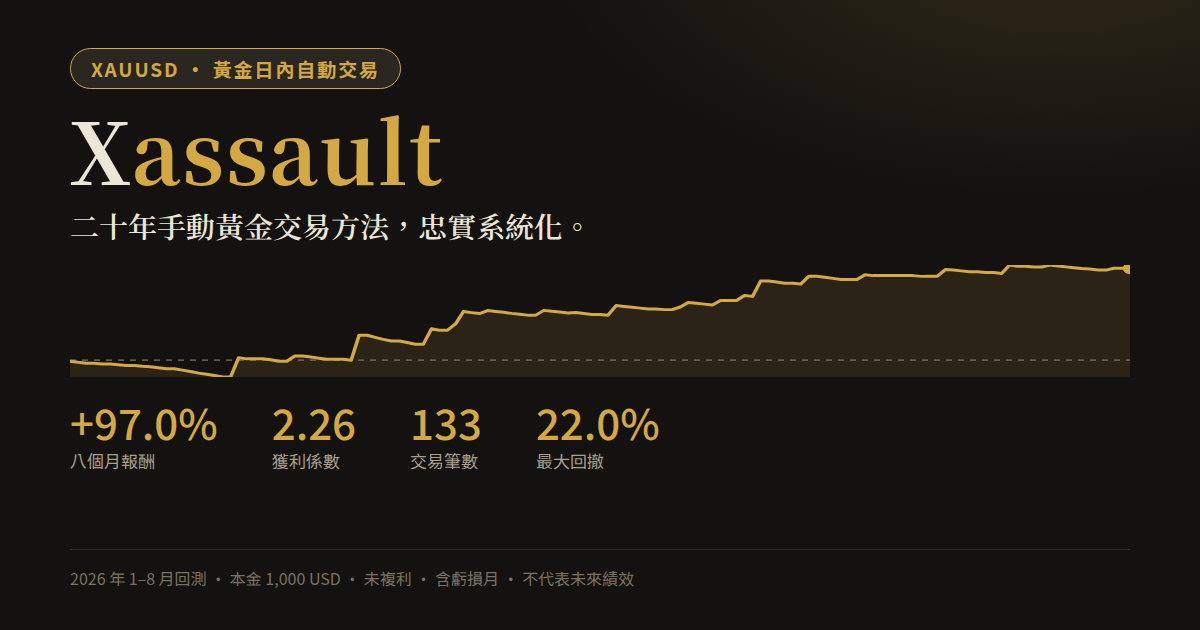
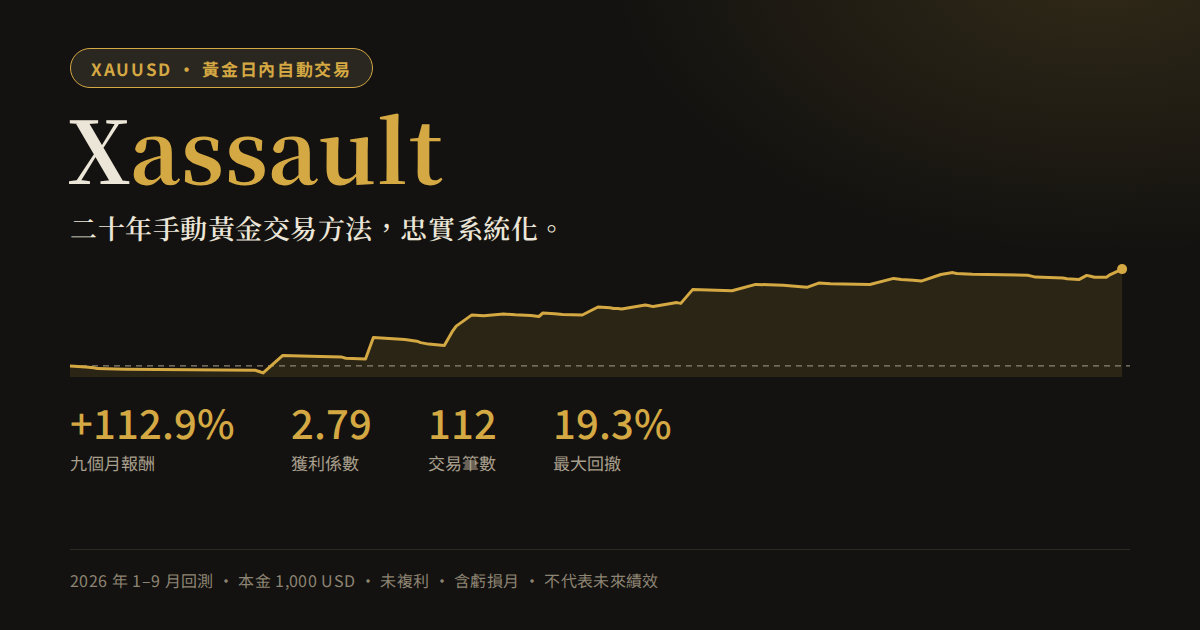
單筆版更新為最新版程式回測(單筆 0.01 對鎖關:2026/1/2~9/25、112 筆、+1,129.34/PF 2.79/回撤 19.3%@1000)
- KPI/曲線/月表改用最新回測:淨損益、獲利係數、最大回撤取 MT4 報表原值;
  曲線、月別、逐日統計取自執行日誌逐日平倉損益(合計 1,129.37)
- 「錯很多次，但每次錯得很小」改用報表口徑:60 筆虧損/52 筆獲利(含保本)、
  平均虧損 −10.5、平均獲利 +33.9、賺賠比 3.2×
- 最大單筆虧損改為最壞的一天(23.08 = 本金 2.3%),並揭露獲利集中於三天
- 回測條件補註回測帳戶 10,000、固定 0.01 手,換算為 1,000 本金
- 社群分享預覽卡 og.png 重新產生

Claude-Session: https://claude.ai/code/session_01Lc6fu3JrR3s321HPCpsum5

diff --git a/index.html b/index.html
@@ -16,7 +16,7 @@
 <meta property="og:image" content="https://xassault-tw.github.io/Xassault-TW/og.png">
 <meta property="og:image:width" content="1200">
 <meta property="og:image:height" content="630">
-<meta property="og:image:alt" content="Xassault 回測權益曲線：2026 年 1–8 月 +97.0%、獲利係數 2.26、最大回撤 22.0%">
+<meta property="og:image:alt" content="Xassault 回測權益曲線：2026 年 1–9 月 +112.9%、獲利係數 2.79、最大回撤 19.3%">
 <meta name="twitter:card" content="summary_large_image">
 <meta name="twitter:title" content="Xassault｜黃金日內自動交易系統">
 <meta name="twitter:description" content="二十年手動黃金交易方法，忠實系統化。真實回測數據逐月攤開，含虧損月。">
@@ -184,7 +184,7 @@ footer p{margin:0}
       <div class="card">
         <h3>小額起步的觀望者</h3>
         <p>以為程式交易是大戶的遊戲——投入太多不敢，太少又怕撐不住波動。</p>
-        <p class="a"><b>系統的回應：</b>它跑最小 0.01 手，1,000 美元就能起步。2026 回測 133 筆，最大單筆虧損 22.9 美元——約本金的 2.3%。</p>
+        <p class="a"><b>系統的回應：</b>它跑最小 0.01 手，1,000 美元就能起步。2026 年 1–9 月回測 112 筆，最壞的一天虧 23.08 美元——約本金的 2.3%。</p>
       </div>
     </div>
   </div>
@@ -198,13 +198,13 @@ footer p{margin:0}
       <p>華爾街最老的一句話：截斷虧損，讓利潤奔跑。多數人都會背，很少人做得到——因為做到它需要的不是聰明，是每一單都不例外的紀律。</p>
     </div>
 
-    <p style="margin:0 0 6px">先看一組會嚇到你的真實數字。2026 年回測 133 筆交易裡：<b>73 筆停損、37 筆保本出場、只有 23 筆真正獲利</b>。聽起來很失敗？再看下一層——</p>
+    <p style="margin:0 0 6px">先看一組會嚇到你的真實數字。2026 年 1–9 月回測 112 筆交易裡：<b>60 筆虧損，只有 52 筆獲利（含保本出場）</b>；以天來算，有平倉的 69 個交易日裡只有 20 天收正。聽起來很失敗？再看下一層——</p>
     <div class="stats">
-      <div class="stat"><div class="num mono">−10.6</div><div class="lbl">平均一筆虧損（USD）</div><div class="src">總虧損 772.42 ÷ 73 筆</div></div>
-      <div class="stat"><div class="num mono">+75.8</div><div class="lbl">平均一筆獲利（USD）</div><div class="src">總獲利 1,742.72 ÷ 23 筆</div></div>
-      <div class="stat"><div class="num mono">7.2×</div><div class="lbl">賺賠比（平均獲利 ÷ 平均虧損）</div><div class="src">虧損砍在萌芽，利潤抱到成熟</div></div>
+      <div class="stat"><div class="num mono">−10.5</div><div class="lbl">平均一筆虧損（USD）</div><div class="src">總虧損 631.75 ÷ 60 筆</div></div>
+      <div class="stat"><div class="num mono">+33.9</div><div class="lbl">平均一筆獲利（USD）</div><div class="src">總獲利 1,761.09 ÷ 52 筆（含保本出場）</div></div>
+      <div class="stat"><div class="num mono">3.2×</div><div class="lbl">賺賠比（平均獲利 ÷ 平均虧損）</div><div class="src">虧損砍在萌芽，利潤抱到成熟</div></div>
     </div>
-    <p style="margin:0 0 26px">一次獲利，抵掉七次停損。所以勝率只有 45%，八個月帳戶還是 +97.0%——平均每下一筆單，期望值是 <b class="mono">+7.3 美元</b>。這不是新發明，是所有活得久的交易者共同的樣子：<b>不追求每次都對，只確保錯的時候便宜、對的時候豐收。</b></p>
+    <p style="margin:0 0 26px">一次獲利，抵掉三次虧損。所以勝率不到一半（46.4%，含保本出場），九個月帳戶還是 +112.9%——平均每下一筆單，期望值是 <b class="mono">+10.1 美元</b>。這不是新發明，是所有活得久的交易者共同的樣子：<b>不追求每次都對，只確保錯的時候便宜、對的時候豐收。</b></p>
 
     <p style="margin:0 0 14px;color:var(--ink2)">這套數學能成立，靠的是四條寫死在程式裡的紀律：</p>
     <div class="rules">
@@ -221,7 +221,7 @@ footer p{margin:0}
     <div class="sec-head">
       <div class="eyebrow">真實數據</div>
       <h2>2026 年回測，逐月攤開</h2>
-      <p>曲線由回測逐筆交易紀錄重建，數字未經任何修飾——含虧損的月份。</p>
+      <p>曲線由回測逐日平倉損益重建，數字未經任何修飾——含虧損的月份。</p>
     </div>
     <div class="kpis" id="kpis"></div>
     <div class="chart-box">
@@ -233,25 +233,26 @@ footer p{margin:0}
       <table aria-label="2026 月別損益">
         <thead><tr><th>2026</th><th>淨損益 (USD)</th><th>佔本金</th></tr></thead>
         <tbody>
-          <tr><td>1 月</td><td class="neg">−90.34</td><td class="neg">−9.03%</td></tr>
-          <tr><td>2 月</td><td>+104.02</td><td>+10.40%</td></tr>
-          <tr><td>3 月</td><td>+188.75</td><td>+18.88%</td></tr>
-          <tr><td>4 月</td><td>+272.80</td><td>+27.28%</td></tr>
-          <tr><td>5 月</td><td>+153.51</td><td>+15.35%</td></tr>
-          <tr><td>6 月</td><td>+256.53</td><td>+25.65%</td></tr>
-          <tr><td>7 月</td><td>+57.55</td><td>+5.76%</td></tr>
-          <tr><td>8 月（至 27 日）</td><td>+27.48</td><td>+2.75%</td></tr>
-          <tr class="sum"><td>合計</td><td>+970.30</td><td>+97.03%</td></tr>
+          <tr><td>1 月</td><td class="neg">−38.79</td><td class="neg">−3.88%</td></tr>
+          <tr><td>2 月</td><td>+161.94</td><td>+16.19%</td></tr>
+          <tr><td>3 月</td><td>+148.55</td><td>+14.86%</td></tr>
+          <tr><td>4 月</td><td>+305.32</td><td>+30.53%</td></tr>
+          <tr><td>5 月</td><td>+115.19</td><td>+11.52%</td></tr>
+          <tr><td>6 月</td><td>+259.23</td><td>+25.92%</td></tr>
+          <tr><td>7 月</td><td>+56.18</td><td>+5.62%</td></tr>
+          <tr><td>8 月</td><td>+62.40</td><td>+6.24%</td></tr>
+          <tr><td>9 月（至 25 日）</td><td>+59.35</td><td>+5.94%</td></tr>
+          <tr class="sum"><td>合計</td><td>+1,129.37</td><td>+112.94%</td></tr>
         </tbody>
       </table>
     </div>
 
     <div class="callout">
-      <p><b>1 月是虧損的月份，我們照樣放上來。</b>虧損月虧得住、單筆虧損有上限，才是紀律真正的證明。行情隨時在更新，這裡永遠放最新一段完整數據——更長的歷史與之後的實測，聯絡我們就會定期收到。</p>
+      <p><b>1 月是虧損的月份，我們照樣放上來。</b>九個月裡八個月為正，虧損月虧得住、單筆虧損有上限，才是紀律真正的證明。也要說清楚：獲利集中在少數幾天——2 月 24 日、3 月 19 日、4 月 8 日三天就佔了九個月淨利的一半以上，多數有交易的日子是小賠。行情隨時在更新，這裡永遠放最新一段完整數據——更長的歷史與之後的實測，聯絡我們就會定期收到。</p>
     </div>
 
     <div class="cond">
-      <b>回測條件全揭露：</b>XAUUSD（黃金）H1 週期 · MT4 策略測試器 · 點差固定 50 點 · 固定 0.01 手（最小手數）· 起始本金 1,000 USD · 期間 2026 年 1 月 2 日至 8 月 27 日。本頁全部百分比以同一本金基準計，未複利；勝率含保本出場。單筆最大虧損 22.86 USD＝本金 2.3%。
+      <b>回測條件全揭露：</b>XAUUSD（黃金）H1 週期 · MT4 策略測試器（每個即時價格模式）· 點差固定 50 點 · 固定 0.01 手（最小手數）· 起始本金 1,000 USD · 期間 2026 年 1 月 2 日至 9 月 25 日 · 共 112 筆。本頁全部百分比以同一本金基準計，未複利；勝率含保本出場。淨損益 1,129.34 USD、獲利係數 2.79、最大回撤 193.46 USD＝本金 19.3%，皆為 MT4 報表原值；回測帳戶以 10,000 USD 開立、固定 0.01 手，金額與帳戶大小無關，本頁換算為 1,000 USD 本金。曲線、月別與逐日統計依各筆的平倉日歸屬，取自程式執行日誌，合計 1,129.37 USD，與報表淨損益差 0.03；最壞的一天虧 23.08 USD＝本金 2.3%。
     </div>
   </div>
 </section>
@@ -290,7 +291,7 @@ footer p{margin:0}
     <div class="faq">
       <div class="qa">
         <h3>需要多少資金？</h3>
-        <p>系統以最小 0.01 手運作，1,000 美元即可起步。2026 回測的單筆最大虧損約 22.9 美元，佔本金約 2.3%；資金放大時，報酬與回撤同比例增減。</p>
+        <p>系統以最小 0.01 手運作，1,000 美元即可起步。2026 年 1–9 月回測最壞的一天虧 23.08 美元，佔本金約 2.3%；最大回撤 193.46 美元，約 19.3%。資金放大時，報酬與回撤同比例增減。</p>
       </div>
       <div class="qa">
         <h3>我需要懂交易或盯盤嗎？</h3>
@@ -298,11 +299,11 @@ footer p{margin:0}
       </div>
       <div class="qa">
         <h3>最壞情況會虧多少？</h3>
-        <p>每一筆的停損在下單前就決定好、隨單送到券商端。2026 年回測 133 筆中最大單筆虧損 22.9 美元（本金 2.3%）、最大回撤 22.0%。要說實話的部分：極端行情的跳空與滑點可能讓實際虧損大於停損位，這是所有交易系統共同的風險，沒有例外。</p>
+        <p>每一筆的停損在下單前就決定好、隨單送到券商端。2026 年 1–9 月回測 112 筆中，最壞的一天虧 23.08 美元（本金 2.3%）、最大回撤 19.3%。要說實話的部分：極端行情的跳空與滑點可能讓實際虧損大於停損位，這是所有交易系統共同的風險，沒有例外。</p>
       </div>
       <div class="qa">
         <h3>回測數字能信嗎？</h3>
-        <p>本頁條件全部揭露：固定點差 50 點、最小手數、期間與本金都寫明，曲線由逐筆交易紀錄重建。實盤的點差、滑點會造成差異，所以我們接下來會用同樣標準持續公開實測數據——賺賠都報。</p>
+        <p>本頁條件全部揭露：固定點差 50 點、最小手數、期間與本金都寫明，淨損益、獲利係數、最大回撤直接取自 MT4 報表，曲線由逐日平倉損益重建。實盤的點差、滑點會造成差異，所以我們接下來會用同樣標準持續公開實測數據——賺賠都報。</p>
       </div>
       <div class="qa">
         <h3>為什麼不公開進出場規則？</h3>
@@ -354,9 +355,9 @@ footer p{margin:0}
 </footer>
 
 <script>
-const DATA = {"2026":[["2026-01-02T02:56:26",988.96],["2026-01-05T03:02:04",977.66],["2026-01-07T08:46:04",968.32],["2026-01-08T03:09:38",968.32],["2026-01-08T07:30:36",959.03],["2026-01-12T10:48:05",959.03],["2026-01-14T07:01:33",950.85],["2026-01-15T05:27:03",943.03],["2026-01-16T17:25:37",943.03],["2026-01-20T06:35:38",935.7],["2026-01-21T06:19:30",930.41],["2026-01-22T19:22:37",920.97],["2026-01-26T03:11:39",909.66],["2026-01-27T11:59:39",909.66],["2026-02-02T07:44:36",895.03],["2026-02-12T18:11:37",879.47],["2026-02-13T03:05:13",863.91],["2026-02-17T02:52:18",851.2],["2026-02-18T05:04:05",837.26],["2026-02-19T08:45:04",822.3],["2026-02-20T15:20:05",822.3],["2026-02-24T03:15:28",1026.2],["2026-02-25T03:14:26",1013.68],["2026-02-26T16:30:15",1013.68],["2026-02-27T07:30:27",1013.68],["2026-03-03T16:44:19",1004.32],["2026-03-04T03:01:22",988.43],["2026-03-05T15:20:36",988.43],["2026-03-06T03:51:36",1043.53],["2026-03-06T13:56:19",1043.53],["2026-03-11T15:49:36",1032.88],["2026-03-12T00:56:20",1021.01],["2026-03-17T06:44:28",1010.76],["2026-03-18T12:35:05",1010.76],["2026-03-18T12:35:17",1009.95],["2026-03-19T08:35:27",999.08],["2026-03-19T15:53:39",1263.19],["2026-03-23T07:30:28",1263.19],["2026-03-27T17:21:15",1240.33],["2026-03-30T14:44:23",1218.89],["2026-03-31T03:02:27",1202.43],["2026-03-31T03:16:18",1202.43],["2026-04-02T04:03:39",1185.76],["2026-04-06T12:00:16",1168.14],["2026-04-07T22:19:38",1168.14],["2026-04-08T13:16:27",1330.6],["2026-04-09T03:07:40",1316.04],["2026-04-09T04:10:37",1316.04],["2026-04-09T18:17:38",1381.72],["2026-04-13T02:00:22",1512.46],["2026-04-16T03:02:13",1502.05],["2026-04-17T15:48:29",1492.31],["2026-04-21T09:00:38",1523.74],["2026-04-21T10:02:26",1514.7],["2026-04-23T20:42:37",1504.62],["2026-04-24T07:22:27",1494.11],["2026-04-28T08:00:26",1484.89],["2026-04-30T03:00:27",1475.23],["2026-05-01T07:32:36",1475.23],["2026-05-01T09:19:05",1525.47],["2026-05-01T17:12:18",1515.47],["2026-05-04T13:03:37",1507.46],["2026-05-06T02:12:37",1497.28],["2026-05-11T01:00:00",1503.0],["2026-05-11T03:17:38",1492.3],["2026-05-12T18:22:39",1482.13],["2026-05-14T03:17:01",1482.13],["2026-05-15T04:07:37",1474.47],["2026-05-15T17:18:30",1576.21],["2026-05-18T03:33:38",1567.04],["2026-05-19T02:13:28",1559.03],["2026-05-19T16:31:14",1549.54],["2026-05-20T04:36:27",1539.29],["2026-05-20T15:34:40",1540.62],["2026-05-21T04:10:29",1533.66],["2026-05-25T04:23:33",1533.66],["2026-05-26T07:58:03",1561.44],["2026-05-27T01:00:16",1608.31],["2026-05-27T09:31:37",1600.69],["2026-05-28T17:14:38",1591.71],["2026-05-29T04:15:36",1582.38],["2026-05-29T22:57:17",1628.74],["2026-06-01T15:22:02",1628.74],["2026-06-03T23:32:36",1628.74],["2026-06-04T07:34:36",1682.5],["2026-06-05T03:12:36",1673.48],["2026-06-08T10:24:19",1835.04],["2026-06-09T15:09:39",1835.04],["2026-06-10T04:03:39",1824.26],["2026-06-18T19:36:28",1811.76],["2026-06-23T04:17:27",1811.76],["2026-06-24T02:38:13",1802.95],["2026-06-24T17:12:16",1885.27],["2026-06-26T10:27:17",1885.27],["2026-07-01T16:38:29",1874.21],["2026-07-07T04:27:27",1862.93],["2026-07-07T15:09:36",1851.64],["2026-07-09T05:26:37",1851.64],["2026-07-10T06:00:27",1851.64],["2026-07-10T17:33:01",1901.44],["2026-07-13T01:48:36",1892.87],["2026-07-16T08:30:38",1892.87],["2026-07-17T05:32:38",1892.87],["2026-07-20T05:42:29",1892.87],["2026-07-21T18:17:36",1892.87],["2026-07-22T16:28:04",1892.87],["2026-07-23T14:40:39",1884.74],["2026-07-27T01:00:00",1885.07],["2026-07-27T04:01:38",1885.07],["2026-07-29T22:33:37",1956.16],["2026-07-30T17:00:36",1950.71],["2026-07-31T04:50:39",1942.82],["2026-08-03T16:38:04",1933.96],["2026-08-04T18:10:13",1933.96],["2026-08-05T05:25:25",1925.18],["2026-08-07T11:06:37",1925.18],["2026-08-10T04:05:19",1914.21],["2026-08-10T04:27:39",2003.15],["2026-08-10T09:43:28",1992.18],["2026-08-12T15:34:19",1992.18],["2026-08-13T03:34:26",1982.87],["2026-08-13T05:30:15",1982.87],["2026-08-13T08:42:28",2004.42],["2026-08-14T03:26:28",1994.65],["2026-08-14T14:50:36",1984.88],["2026-08-17T03:44:39",1976.12],["2026-08-18T17:53:29",1967.73],["2026-08-19T03:13:38",1961.19],["2026-08-21T07:21:28",1950.39],["2026-08-24T17:21:14",1950.39],["2026-08-25T22:17:17",1970.3],["2026-08-26T15:30:39",1970.3],["2026-08-27T16:34:37",1970.3]]};
+const DATA = {"2026":[["2026-01-05",988.51],["2026-01-07",978.9],["2026-01-08",969.13],["2026-01-15",961.21],["2026-02-17",948.44],["2026-02-18",934.57],["2026-02-19",919.21],["2026-02-24",1123.15],["2026-03-03",1113.51],["2026-03-11",1102.61],["2026-03-12",1090.46],["2026-03-17",1079.77],["2026-03-19",1332.78],["2026-03-27",1309.84],["2026-03-30",1288.16],["2026-03-31",1271.7],["2026-04-02",1254.81],["2026-04-06",1236.94],["2026-04-08",1399.42],["2026-04-09",1465.15],["2026-04-13",1595.9],["2026-04-16",1585.12],["2026-04-21",1607.11],["2026-04-24",1596.27],["2026-04-28",1586.83],["2026-04-30",1577.02],["2026-05-01",1617.66],["2026-05-04",1609.55],["2026-05-06",1599.15],["2026-05-11",1594.16],["2026-05-15",1688.13],["2026-05-18",1678.74],["2026-05-19",1670.5],["2026-05-20",1671.83],["2026-05-21",1664.44],["2026-05-27",1711.32],["2026-05-28",1702.0],["2026-05-29",1692.21],["2026-06-04",1738.61],["2026-06-05",1729.33],["2026-06-08",1890.9],["2026-06-18",1878.26],["2026-06-24",1951.44],["2026-07-01",1940.36],["2026-07-07",1917.28],["2026-07-10",1967.12],["2026-07-13",1958.49],["2026-07-23",1950.09],["2026-07-29",2021.18],["2026-07-30",2015.62],["2026-07-31",2007.62],["2026-08-03",1998.69],["2026-08-05",1989.74],["2026-08-10",2067.3],["2026-08-13",2088.89],["2026-08-14",2078.9],["2026-08-18",2070.02],["2026-09-01",2059.15],["2026-09-02",2048.32],["2026-09-03",2036.28],["2026-09-10",2026.01],["2026-09-11",2016.19],["2026-09-14",2007.31],["2026-09-16",2055.88],["2026-09-17",2045.48],["2026-09-18",2034.75],["2026-09-21",2034.71],["2026-09-22",2065.77],["2026-09-25",2129.37]]};
 const KPI = {
- "2026":{net:"+970.30",ret:"+97.0%",pf:"2.26",dd:"22.0%",ddu:"220.18",worst:"2.3%",worstu:"22.86",n:"133",wr:"45.1%",period:"2026 年 1–8 月"}
+ "2026":{net:"+1,129.34",ret:"+112.9%",pf:"2.79",dd:"19.3%",ddu:"193.46",worst:"2.3%",worstu:"23.08",days:"69",n:"112",wr:"46.4%",period:"2026 年 1–9 月"}
 };
 const svg=document.getElementById('chart'), tip=document.getElementById('tip'), kpisEl=document.getElementById('kpis');
 const NS='http://www.w3.org/2000/svg';
@@ -367,7 +368,7 @@ function renderKpis(){
   kpisEl.innerHTML=
    `<div class="kpi"><div class="lbl">淨損益（${k.period}）</div><div class="val mono">${k.net} <span style="font-size:13px">USD</span></div><div class="sub mono">${k.ret}（本金 1,000 USD，未複利）</div></div>`+
    `<div class="kpi"><div class="lbl">最大回撤</div><div class="val mono">${k.dd}</div><div class="sub mono">${k.ddu} USD · MT4 報表口徑</div></div>`+
-   `<div class="kpi"><div class="lbl">最大單筆虧損</div><div class="val mono">${k.worst}</div><div class="sub mono">${k.worstu} USD · 133 筆中最壞一筆</div></div>`+
+   `<div class="kpi"><div class="lbl">最壞的一天</div><div class="val mono">${k.worst}</div><div class="sub mono">${k.worstu} USD · ${k.days} 個交易日中最壞一天</div></div>`+
    `<div class="kpi"><div class="lbl">獲利係數</div><div class="val mono">${k.pf}</div><div class="sub">總獲利 ÷ 總虧損</div></div>`+
    `<div class="kpi"><div class="lbl">交易筆數</div><div class="val mono">${k.n}</div><div class="sub">整段期間</div></div>`+
    `<div class="kpi"><div class="lbl">勝率</div><div class="val mono">${k.wr}</div><div class="sub">含保本出場</div></div>`;
@@ -384,13 +385,14 @@ function renderChart(){
   const pad=(hi-lo)*0.08; lo-=pad; hi+=pad;
   const X=t=>L+(t-t0)/(tEnd-t0)*(W-L-R), Y=v=>T+(hi-v)/(hi-lo)*(H-T-B);
   svg.innerHTML='';
-  const step=Math.max(50,Math.ceil((hi-lo)/4/50)*50), y0=Math.ceil(lo/step)*step;
+  const raw=(hi-lo)/4, mag=Math.pow(10,Math.floor(Math.log10(raw)));
+  const step=[1,2,2.5,5,10].map(m=>m*mag).find(s=>s>=raw), y0=Math.ceil(lo/step)*step;
   for(let v=y0;v<=hi;v+=step){
     svg.appendChild(el('line',{x1:L,x2:W-R,y1:Y(v),y2:Y(v),stroke:line,'stroke-width':1}));
     const t=el('text',{x:L-8,y:Y(v)+4,'text-anchor':'end',fill:ink3,'font-size':11,class:'mono'});
     t.textContent=v.toLocaleString(); svg.appendChild(t);
   }
-  for(let m=2;m<9;m++){
+  for(let m=2;m<13;m++){
     const t=Date.parse('2026-'+String(m).padStart(2,'0')+'-01');
     if(t<t0||t>tEnd)continue;
     const lbl=el('text',{x:X(t),y:H-14,'text-anchor':'middle',fill:ink3,'font-size':11});
@@ -423,7 +425,8 @@ svg.addEventListener('pointermove',e=>{
   hd.setAttribute('cx',px[i]);hd.setAttribute('cy',py[i]);hd.setAttribute('opacity',1);
   const p=pts[i], pl=(i?p[1]-pts[i-1][1]:p[1]-1000);
   tip.style.display='block';
-  tip.innerHTML=p[0].slice(0,16).replace('T',' ')+'<br>權益 <b>'+p[1].toLocaleString(undefined,{minimumFractionDigits:2})+'</b><br>當筆 '+(pl>=0?'+':'')+pl.toFixed(2);
+  const daily=p[0].length<=10;
+  tip.innerHTML=p[0].slice(0,16).replace('T',' ')+'<br>權益 <b>'+p[1].toLocaleString(undefined,{minimumFractionDigits:2})+'</b><br>'+(daily?'當日 ':'當筆 ')+(pl>=0?'+':'')+pl.toFixed(2);
   const bw=box.clientWidth, tx=px[i]/880*bw;
   tip.style.left=Math.min(Math.max(8,tx+14),bw-tip.offsetWidth-8)+'px';
   tip.style.top=(py[i]/360*box.clientHeight-10)+'px';
